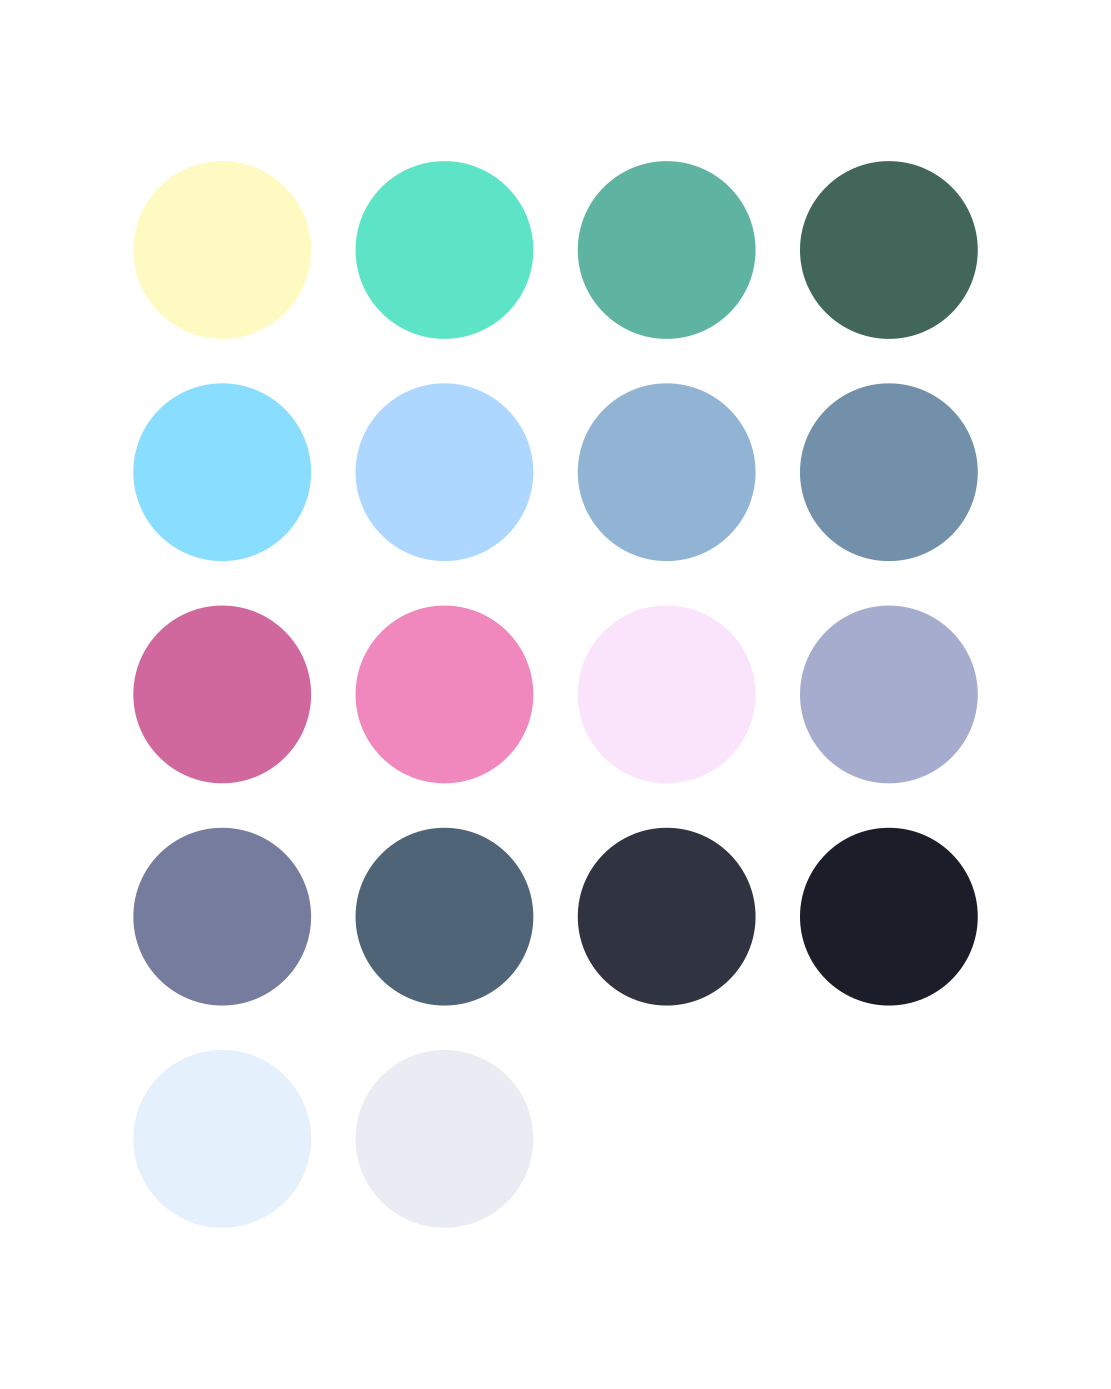
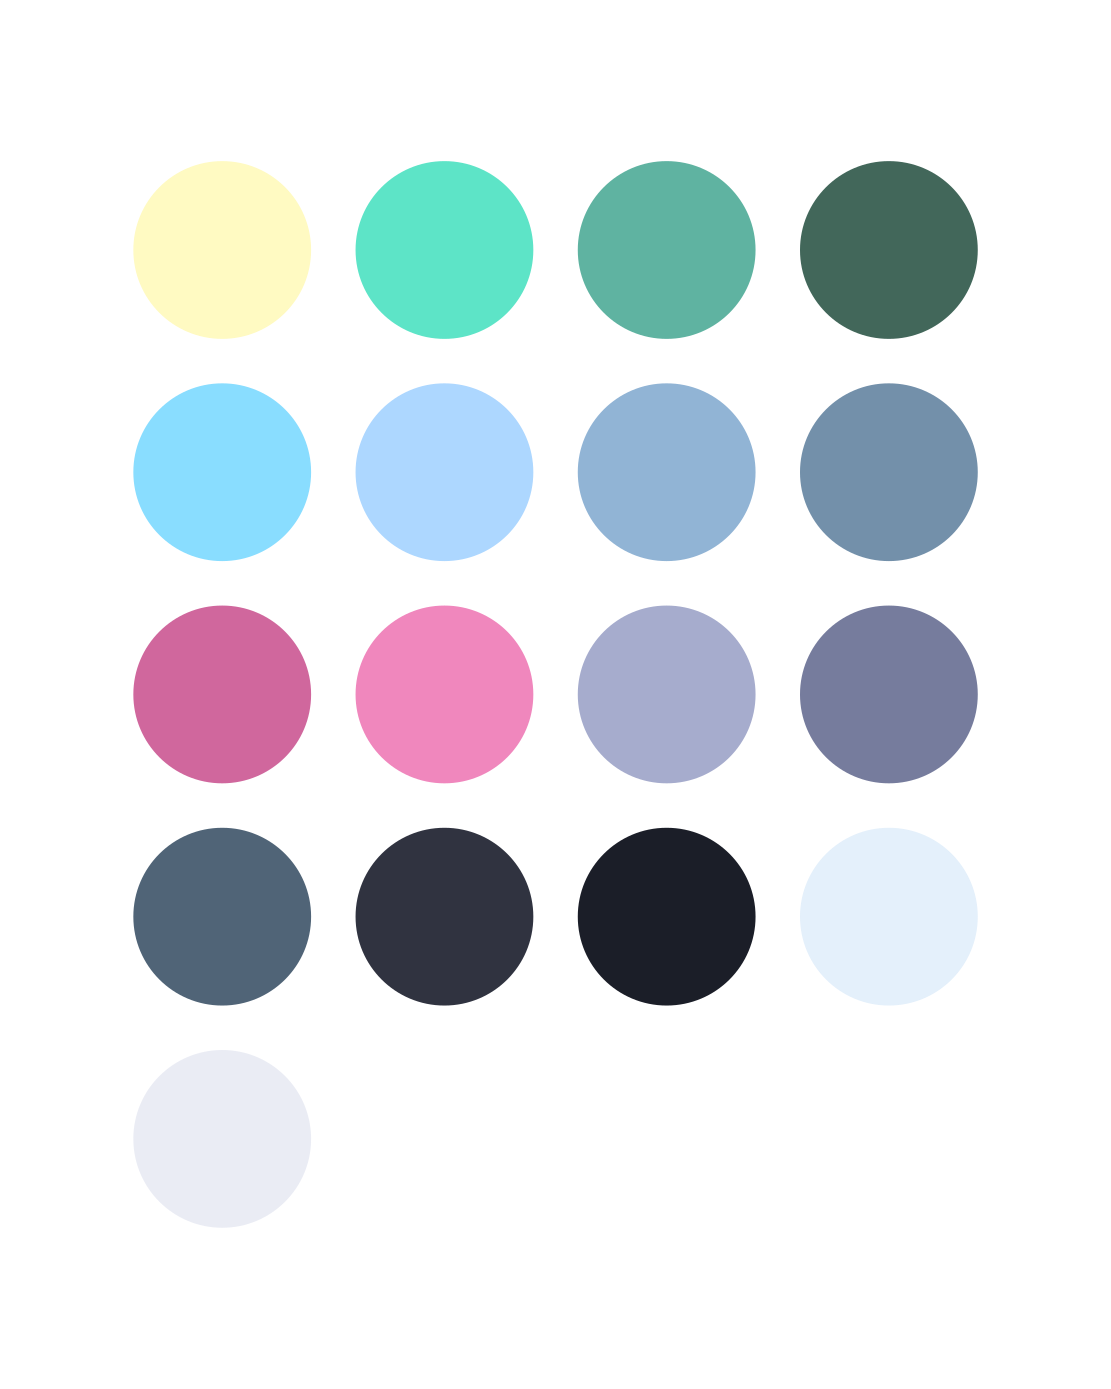
fix minors

Changed region(s): [[0.5203, 0.4334, 0.8875, 0.743], [0.1224, 0.5882, 0.4896, 0.743]]

diff --git a/src/theme.js b/src/theme.js
@@ -12,7 +12,6 @@ const base = {
 
     hotRed: '#d0679d',
     pink: '#f087bd',
-    brighterPink: '#FAE4FC',
     gray: '#a6accd',
 
     darkerGray: '#767c9d',
@@ -320,13 +319,13 @@ function schema({ colors, styles }) {
       "listFilterWidget.background": "${colors.focus}",
       "listFilterWidget.noMatchesOutline": "${colors.hotRed}",
       "listFilterWidget.outline": "${colors.transparent}",
-      "list.activeSelectionBackground": "${colors.transparent}",
+      "list.activeSelectionBackground": "${colors.focus}80",
       "list.activeSelectionForeground": "${colors.offWhite}",
       "list.errorForeground": "${colors.hotRed}",
-      "list.focusBackground": "${colors.transparent}",
+      "list.focusBackground": "${colors.focus}80",
       "list.focusForeground": "${colors.gray}",
       "list.highlightForeground": "${colors.lowerMint}",
-      "list.hoverBackground": "${colors.transparent}",
+      "list.hoverBackground": "${colors.focus}80",
       "list.hoverForeground": "${colors.offWhite}",
       "list.inactiveSelectionBackground": "${colors.transparent}",
       "list.inactiveSelectionForeground": "${colors.offWhite}",
@@ -520,19 +519,25 @@ function schema({ colors, styles }) {
         }
       },
       {
-        "scope": ["variable.other.property", "variable.other", "support.type.object"],
+        "scope": ["variable.other", "support.type.object"],
         "settings": {
           "foreground": "${colors.offWhite}"
         }
       },
       {
-        "scope": ["meta.object.member"],
+        "scope": ["variable.other.object.property", "variable.other.property", "support.variable.property"],
+        "settings": {
+          "foreground": "${colors.offWhite}"
+        }
+      },
+      {
+        "scope": ["entity.name.function.method", "string.unquoted", "meta.object.member"],
         "settings": {
           "foreground": "${colors.lightBlue}"
         }
       },
       {
-        "scope": ["variable - meta.import", "constant.other.placeholder", "variable.other.object.property", "meta.object-literal.key-meta.object.member"],
+        "scope": ["variable - meta.import", "constant.other.placeholder", "meta.object-literal.key-meta.object.member"],
         "settings": {
           "foreground": "${colors.offWhite}"
         }
@@ -551,8 +556,14 @@ function schema({ colors, styles }) {
       },
       {
         "scope": [
-          "variable.language.super", 
-          "storage.modifier.async", 
+          "variable.language.this", "storage.modifier.async", "storage.modifier", "variable.language.super"
+        ],
+        "settings": {
+          "foreground": "${colors.brightMint}"
+        }
+      },
+      {
+        "scope": [         
           "support.class.error", 
           "keyword.control.trycatch", 
           "keyword.operator.expression.delete", 
@@ -598,7 +609,7 @@ function schema({ colors, styles }) {
         }
       },
       {
-        "scope": ["keyword.operator", "storage.type", "storage.modifier", "keyword.control.conditional", "keyword.control.loop"],
+        "scope": ["keyword.operator", "storage.type"],
         "settings": {
           "foreground": "${colors.desaturatedBlue}"
         }
@@ -661,7 +672,7 @@ function schema({ colors, styles }) {
         "name": "Function Call",
         "scope": "variable.function, source meta.function-call entity.name.function, source meta.function-call entity.name.function, source meta.method-call entity.name.function, meta.class meta.group.braces.curly meta.function-call variable.function, meta.class meta.field.declaration meta.function-call entity.name.function, variable.function.constructor, meta.block meta.var.expr meta.function-call entity.name.function, support.function.console, meta.function-call support.function, meta.property.class variable.other.class, punctuation.definition.entity.css",
         "settings": {
-          "foreground": "${colors.offWhite}"
+          "foreground": "${colors.offWhite}d0"
         }
       },
       {
@@ -695,7 +706,6 @@ function schema({ colors, styles }) {
           "constant.language",
           "constant.other.symbol",
           "constant.other.key",
-          "entity.other.inherited-class",
           "markup.heading",
           "markup.inserted.git_gutter",
           "meta.group.braces.curly constant.other.object.key.js string.unquoted.label.js",
@@ -706,15 +716,27 @@ function schema({ colors, styles }) {
         }
       },
       {
+        "scope": ["entity.other.inherited-class"],
+        "settings": {
+          "foreground": "${colors.lightBlue}"
+        }
+      },
+      {
         "scope": ["meta.type.declaration"],
         "settings": {
           "foreground": "${colors.lightBlue}"
         }
       },
       {
-        "scope": ["keyword.control.as", "entity.name.type", "support.type"],
+        "scope": ["entity.name.type.alias"],
         "settings": {
           "foreground": "${colors.gray}"
+        }
+      },
+      {
+        "scope": ["keyword.control.as", "entity.name.type", "support.type"],
+        "settings": {
+          "foreground": "${colors.gray}C0"
         }
       },
       {
